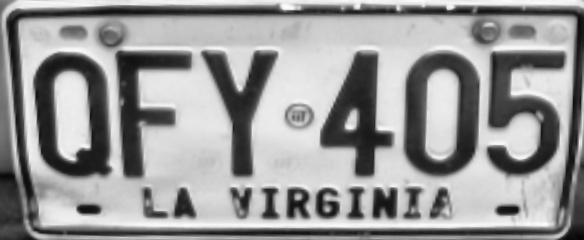
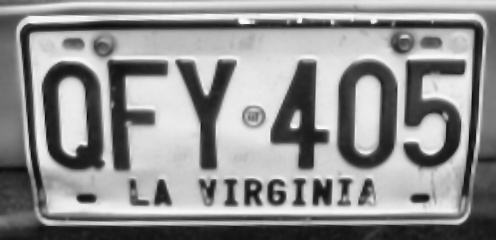
Improved the points on the image

diff --git a/Project/utils.py b/Project/utils.py
@@ -79,21 +79,39 @@ def expand_box(src_points, expand_px=5):
 def get_warp_from_box(box, image, target_h=240, min_w=120):
     # ordenar puntos como tl, tr, br, bl
     print("[FNC get_warp_from_box] Ordenando puntos fuente")
-    s = box.sum(axis=1)
-    diff = np.diff(box, axis=1).reshape(-1)
-    tl = box[np.argmin(s)]
-    br = box[np.argmax(s)]
-    tr = box[np.argmin(diff)]
-    bl = box[np.argmax(diff)]
-    src = np.array([tl, tr, br, bl], dtype=np.float32)
+    
+    #s = box.sum(axis=1)
+    #diff = np.diff(box, axis=1).reshape(-1)
+    #tl = box[np.argmin(s)]
+    #br = box[np.argmax(s)]
+    #tr = box[np.argmin(diff)]
+    #bl = box[np.argmax(diff)]
+    #src = np.array([tl, tr, br, bl], dtype=np.float32)
+
+    src = order_points(box)
+    src = expand_box(src, expand_px=8)
+    print("[FNC get_warp_from_box] Puntos fuente ordenados:", src.tolist())
+
+    debug_points = image.copy()
+    for (x, y) in src.astype(int):
+    	cv2.circle(debug_points, (x, y), 5, (0, 255, 0), -1)
+    cv2.imwrite("debug_points.jpg", debug_points)
+    print("[DEBUG] Puntos fuente guardados en debug_points.jpg")
+
     src = expand_box(src, expand_px=8)  # anade margen de 8 pixeles
     print("[FNC get_warp_from_box] Puntos fuente ordenados:", src.tolist())
 
     # calcular ancho y alto del rectificado
-    wA = np.linalg.norm(br - bl)
-    wB = np.linalg.norm(tr - tl)
-    hA = np.linalg.norm(tr - br)
-    hB = np.linalg.norm(tl - bl)
+    #wA = np.linalg.norm(br - bl)
+    #wB = np.linalg.norm(tr - tl)
+    #hA = np.linalg.norm(tr - br)
+    #hB = np.linalg.norm(tl - bl)
+    
+    wA = np.linalg.norm(src[2] - src[3])  # br - bl
+    wB = np.linalg.norm(src[1] - src[0])  # tr - tl
+    hA = np.linalg.norm(src[1] - src[2])  # tr - br
+    hB = np.linalg.norm(src[0] - src[3])  # tl - bl
+    
     maxW = max(wA, wB)
     maxH = max(hA, hB)
     aspect = maxW / maxH if maxH > 0 else 4.0
@@ -154,3 +172,24 @@ def preprocess_plate(img, out_path="plate_prepoc.jpg", target_h=None):
     print("[FNC preprocess_plate] Preprocesado completado:", out_path)
     return out_path
 
+def order_points(pts):
+    # pts: array de 4 puntos (x,y)
+    rect = np.zeros((4, 2), dtype="float32")
+
+    # ordenar por x (izquierda vs derecha)
+    x_sorted = pts[np.argsort(pts[:, 0]), :]
+
+    left = x_sorted[:2]
+    right = x_sorted[2:]
+
+    # ordenar por y dentro de cada grupo
+    left = left[np.argsort(left[:, 1]), :]
+    right = right[np.argsort(right[:, 1]), :]
+
+    # asignar: tl, bl, tr, br
+    rect[0] = left[0]   # top-left
+    rect[1] = right[0]  # top-right
+    rect[2] = right[1]  # bottom-right
+    rect[3] = left[1]   # bottom-left
+
+    return rect
